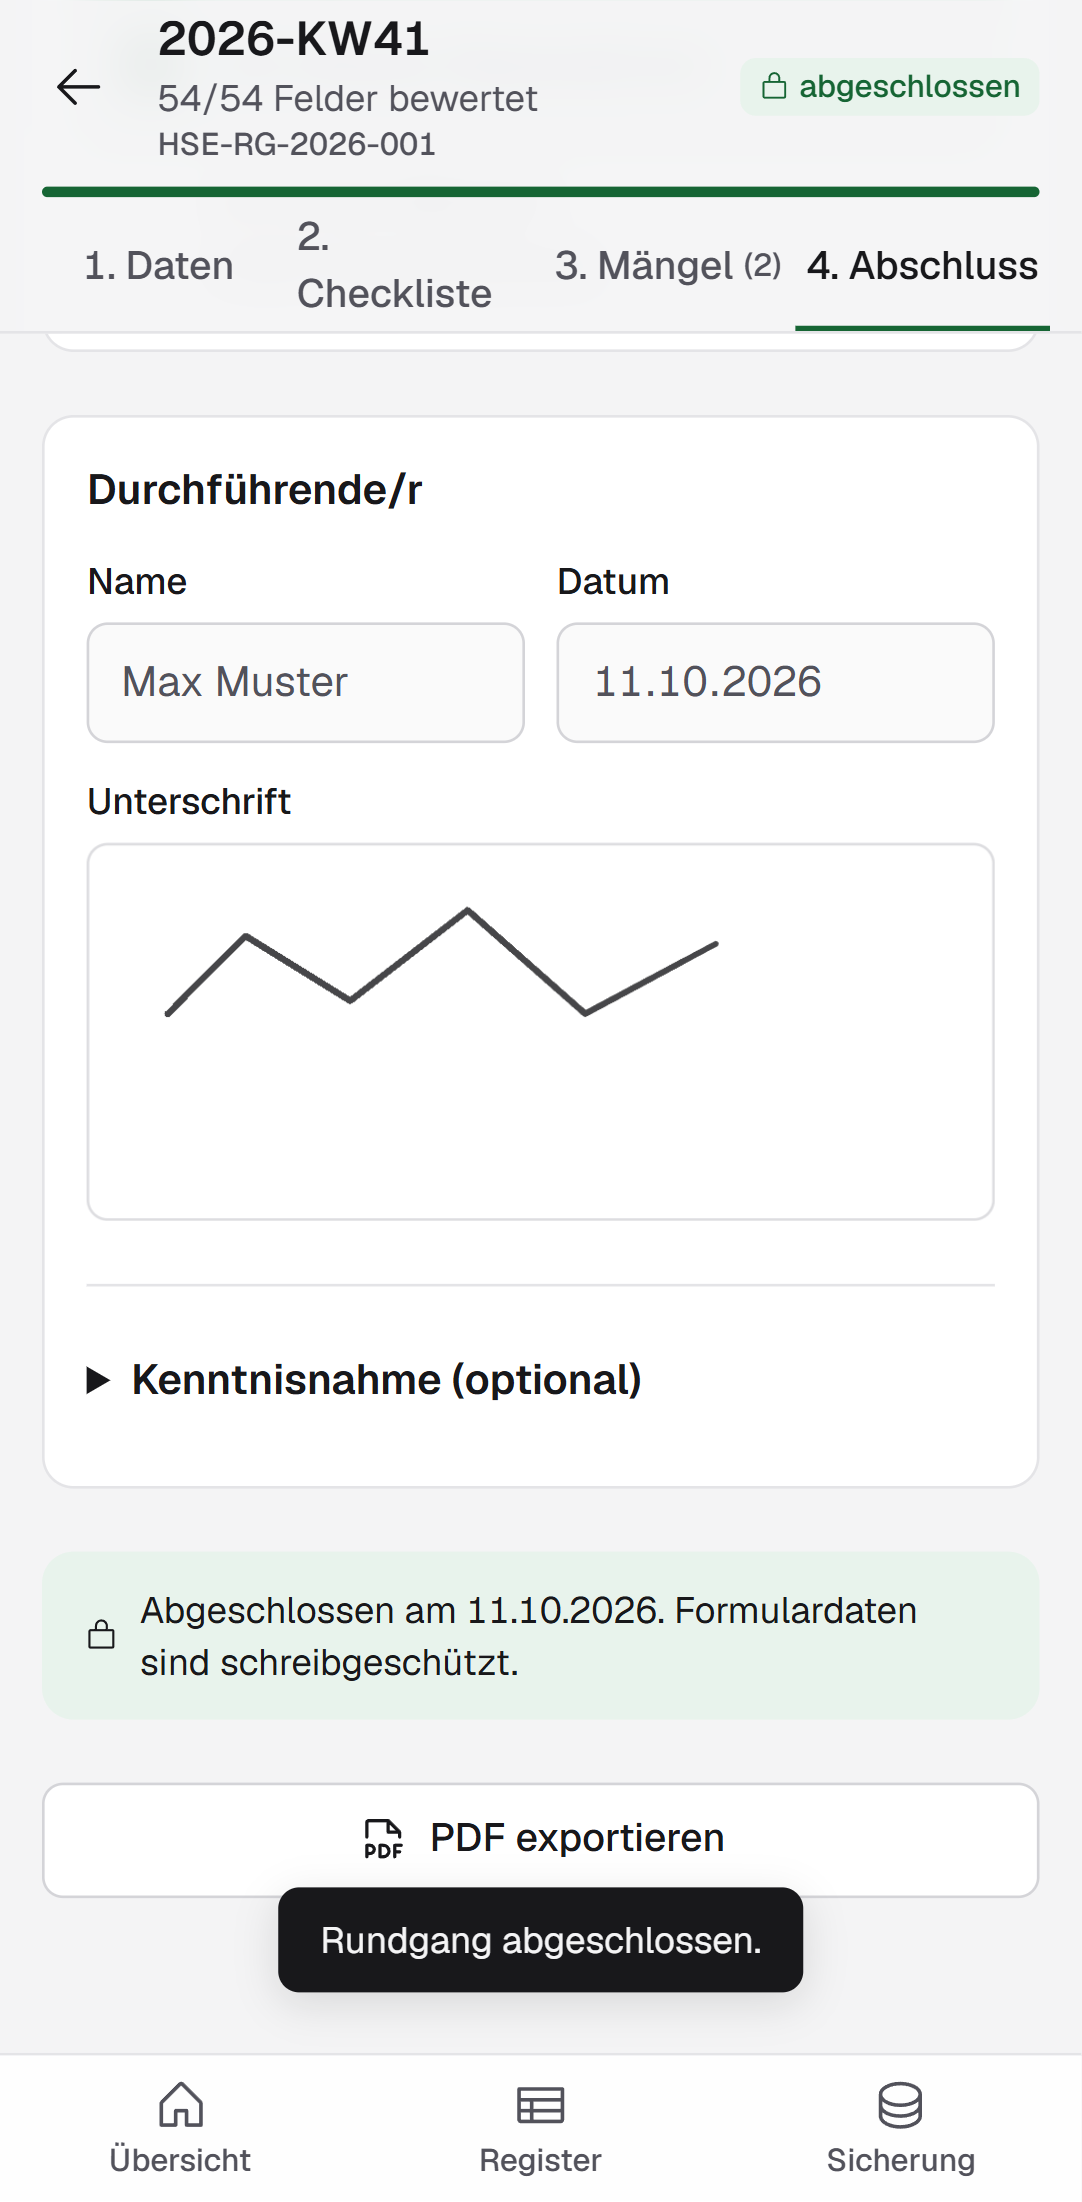
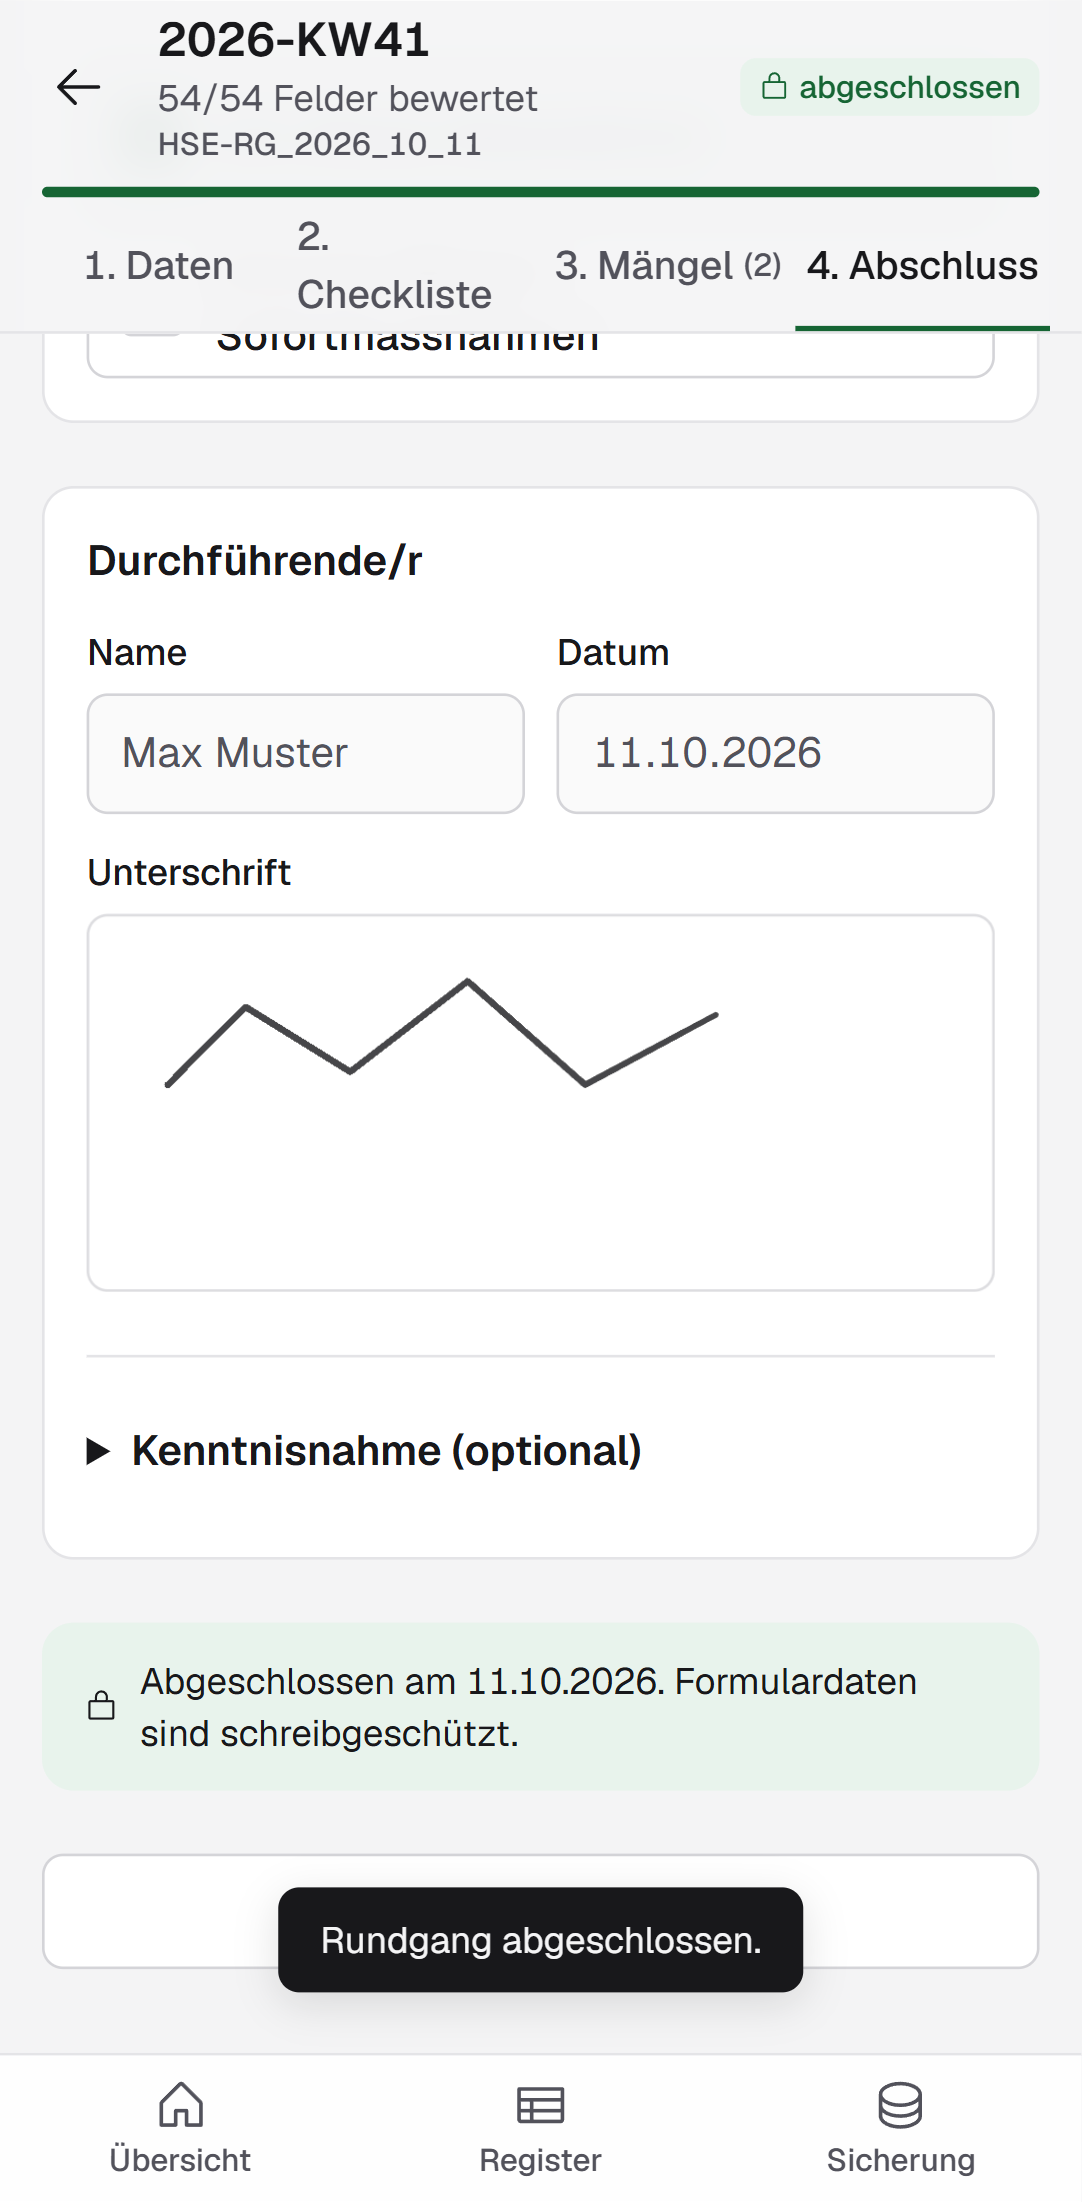
Show date-based walk IDs across reports and lists

diff --git a/src/lib/pdf.ts b/src/lib/pdf.ts
@@ -3,7 +3,7 @@ import { autoTable, type CellHookData, type RowInput } from 'jspdf-autotable';
 import { QPS_LOGO_PNG, QPS_LOGO_RATIO } from '../assets/qpsLogo';
 import { FORM_AREAS, FORM_TITLE, INTERVAL_NOTICE, MONTHLY_ITEMS, MONTHLY_NOTICE, NOT_IN_WALK_TEXT, PRIORITY_NOTE, RATING_LABELS, RATING_LEGEND, SOP_META, WEEKLY_ITEMS, WEEKLY_NOTICE, areaLabel } from '../data/checklist';
 import { DEFECT_STATUS_LABELS, PRIORITY_KEY_TO_TEXT, RESULT_LABELS } from '../data/register';
-import { addDays, durationMinutes, formatDate, formatDuration, toISODate } from './dates';
+import { addDays, displayWalkNumber, durationMinutes, formatDate, formatDuration, toISODate } from './dates';
 import { blobToDataUrl } from './image';
 import { priorityDays, suggestedResult, validDefectDue } from './register';
 import type { Defect, Photo, RegisterSettings, ResultKey, Walk } from './types';
@@ -35,7 +35,7 @@ const DESCRIPTION_FALLBACK = 'Beschreibung nicht hinterlegt';
 
 export function pdfWalkNumber(walk: Pick<Walk, 'date'>): string {
   // Presentation-only number requested for the PDF; stored docNr remains the immutable app key.
-  return `HSE-RG_${walk.date.slice(0, 10).replaceAll('-', '_')}`;
+  return displayWalkNumber(walk.date);
 }
 
 export function safePdfDescription(value: unknown): string {
@@ -169,7 +169,7 @@ export async function buildReportPdf(input: PdfInput): Promise<jsPDF> {
       [label('Datum'), formatDate(walk.date), label('Kalenderwoche'), `${walk.isoYear}-KW${String(walk.week).padStart(2, '0')}`],
       [label('Uhrzeit'), `${walk.startTime || '–'} bis ${walk.endTime || '–'}`, label('Dauer'), formatDuration(durationMinutes(walk.startTime, walk.endTime)) || '–'],
       [label('Durchgeführt von'), walk.inspector, label('Begleitperson'), walk.companion || '–'],
-      [label('Monatspunkte'), '', label('Rundgang-Nr.'), walk.docNr],
+      [label('Monatspunkte'), '', label('Rundgang-Nr.'), displayWalkNumber(walk.date)],
       [label('Neue Mängel aktuell'), `${defects.length} erfasst`, label('Frühere Massnahmen offen'), String(openFromPrevious.length)],
     ],
     columnStyles: { 0: { cellWidth: 33 }, 2: { cellWidth: 29 } },
@@ -374,7 +374,7 @@ export async function buildReportPdf(input: PdfInput): Promise<jsPDF> {
     const effectiveDue = validDefectDue(sourceDate, defect, settings);
     const originalDue = defect.due || addDays(sourceDate, priorityDays(settings, defect.priority));
     const overdue = effectiveDue < toISODate(new Date());
-    return [source?.docNr || 'nicht hinterlegt', `M${String(defect.nr).padStart(2, '0')}`, defect.itemId || '–', areaLabel(defect.area, settings.areas), safePdfDescription(defect.description), DEFECT_STATUS_LABELS[defect.status] ?? 'Status nicht hinterlegt', formatDate(originalDue), overdue ? 'ÜBERFÄLLIG' : 'fristgerecht'];
+    return [source ? displayWalkNumber(source.date) : 'nicht hinterlegt', `M${String(defect.nr).padStart(2, '0')}`, defect.itemId || '–', areaLabel(defect.area, settings.areas), safePdfDescription(defect.description), DEFECT_STATUS_LABELS[defect.status] ?? 'Status nicht hinterlegt', formatDate(originalDue), overdue ? 'ÜBERFÄLLIG' : 'fristgerecht'];
   }) : [[{ content: 'Keine offenen Massnahmen aus vorherigen Rundgängen.', colSpan: 8, styles: { textColor: MUTED } }]];
   autoTable(doc, {
     ...common,

diff --git a/src/pages/RegisterPage.tsx b/src/pages/RegisterPage.tsx
@@ -6,7 +6,7 @@ import { DEFECT_STATUS_LABELS, PRIORITY_KEY_TO_TEXT, RESULT_LABELS } from '../da
 import { areaLabel } from '../data/checklist';
 import { db, updateDefect } from '../db';
 import { exportRegisterXlsx } from '../export';
-import { formatDate, toISODate } from '../lib/dates';
+import { displayWalkNumber, formatDate, toISODate } from '../lib/dates';
 import { defectDaysOpen, roundRegisterRows, validDefectDue } from '../lib/register';
 import type { Defect, DefectStatus, Walk } from '../lib/types';
 import { EmptyState, useToast } from '../components/ui';
@@ -64,7 +64,7 @@ function RoundsRegister({ rows }: { rows: ReturnType<typeof roundRegisterRows> }
       <td className={`px-3 py-3 ${row.monthlyWarning ? 'font-semibold text-warn' : ''}`}>{row.walk.monthlyChecked ? 'Ja' : 'Nein'}{row.monthlyWarning ? ' · 2.2 fehlt' : ''}</td>
       <td className="px-3 py-3">{row.walk.startTime}</td><td className="px-3 py-3">{row.walk.endTime || '–'}</td><td className="px-3 py-3">{row.durationMinutes === null ? '–' : `${Math.floor(row.durationMinutes / 60)}:${String(row.durationMinutes % 60).padStart(2, '0')}`}</td>
       <td className="px-3 py-3">{row.walk.inspector}</td><td className="px-3 py-3">{row.walk.companion || '–'}</td><td className="px-3 py-3">{row.defectCount}</td><td className="px-3 py-3">{row.criticalCount}</td><td className="px-3 py-3">{row.openCount}</td>
-      <td className="px-3 py-3">{row.walk.result ? RESULT_LABELS[row.walk.result] : '–'}</td><td className="px-3 py-3"><Link className="text-accent underline" to={`/rundgang/${row.walk.id}/abschluss`}>{row.pdfFilename}</Link></td><td className="max-w-48 truncate px-3 py-3">{row.walk.note}</td><td className="px-3 py-3 font-medium">{row.walk.docNr}</td>
+      <td className="px-3 py-3">{row.walk.result ? RESULT_LABELS[row.walk.result] : '–'}</td><td className="px-3 py-3"><Link className="text-accent underline" to={`/rundgang/${row.walk.id}/abschluss`}>{row.pdfFilename}</Link></td><td className="max-w-48 truncate px-3 py-3">{row.walk.note}</td><td className="px-3 py-3 font-medium">{displayWalkNumber(row.walk.date)}</td>
     </tr>)}
   </tbody></table></div>;
 }

diff --git a/tests/e2e/smoke.spec.ts b/tests/e2e/smoke.spec.ts
@@ -37,7 +37,7 @@ test('neuer Rundgang, optionale Monatspunkte, Mangel mit Foto, Abschluss, Regist
 
   await page.getByTestId('new-walk').click();
   const docNr = (await page.getByTestId('walk-docnr').textContent())?.trim();
-  expect(docNr).toMatch(/^HSE-RG-\d{4}-001$/);
+  expect(docNr).toMatch(/^HSE-RG_\d{4}_\d{2}_\d{2}$/);
   await page.getByLabel('Durchgeführt von').fill('Max Muster');
   const endTime = await page.getByLabel('Uhrzeit Beginn').evaluate((element: HTMLInputElement) => {
     const [hour, minute] = element.value.split(':').map(Number);
@@ -110,7 +110,7 @@ test('neuer Rundgang, optionale Monatspunkte, Mangel mit Foto, Abschluss, Regist
   await page.screenshot({ path: `${shots}/03-abschluss.png` });
 
   const [pdf] = await Promise.all([page.waitForEvent('download'), page.getByTestId('export-pdf').click()]);
-  expect(pdf.suggestedFilename()).toBe(`HSE-RG_${new Date().toISOString().slice(0, 10).replaceAll('-', '_')}.pdf`);
+  expect(pdf.suggestedFilename()).toBe(`${docNr}.pdf`);
   const pdfPath = test.info().outputPath(pdf.suggestedFilename());
   if (process.env.KEEP_PDF) await pdf.saveAs(process.env.KEEP_PDF);
   await pdf.saveAs(pdfPath);
@@ -134,7 +134,7 @@ test('neuer Rundgang, optionale Monatspunkte, Mangel mit Foto, Abschluss, Regist
   await expect(page.getByTestId('overview-round-count')).toHaveText('1');
   await page.getByTestId('new-walk').click();
   const secondDocNr = (await page.getByTestId('walk-docnr').textContent())?.trim();
-  expect(secondDocNr).toMatch(/^HSE-RG-\d{4}-002$/);
+  expect(secondDocNr).toMatch(/^HSE-RG_\d{4}_\d{2}_\d{2}$/);
   await expect(page.getByTestId('open-points')).toContainText('Feuerlöscher hinter Material abgestellt');
   await expect(page.getByTestId('monthly-checked')).not.toBeChecked();
   const secondEndTime = await page.getByLabel('Uhrzeit Beginn').evaluate((element: HTMLInputElement) => {

diff --git a/src/pages/DashboardPage.tsx b/src/pages/DashboardPage.tsx
@@ -3,7 +3,7 @@ import { useLiveQuery } from 'dexie-react-hooks';
 import { useState } from 'react';
 import { Link, useNavigate } from 'react-router';
 import { createWalk, db } from '../db';
-import { formatDate, weekLabel } from '../lib/dates';
+import { displayWalkNumber, formatDate, weekLabel } from '../lib/dates';
 import { overviewMetrics, roundRegisterRows } from '../lib/register';
 import { Badge, EmptyState } from '../components/ui';
 import { useRegisterSettings } from '../components/SettingsContext';
@@ -117,7 +117,7 @@ export function DashboardPage() {
                     <Link to={`/rundgang/${walk.id}/daten`} className="flex items-center gap-3 px-4 py-3 active:bg-surface-2">
                       <div className="min-w-0 flex-1">
                         <div className="flex flex-wrap items-center gap-2">
-                          <span className="font-semibold">{walk.docNr}</span>
+                          <span className="font-semibold">{displayWalkNumber(walk.date)}</span>
                           <span className="text-sm text-muted">{weekLabel(walk.isoYear, walk.week)}</span>
                           {walk.status === 'closed' ? <Badge tone="ok">abgeschlossen</Badge> : <Badge tone="warn">Entwurf</Badge>}
                           {monthlyWarning && <Badge tone="warn">2.2 fehlt</Badge>}

diff --git a/src/components/DefectRow.tsx b/src/components/DefectRow.tsx
@@ -3,7 +3,7 @@ import { useState } from 'react';
 import { areaLabel } from '../data/checklist';
 import { DEFECT_STATUS_LABELS, PRIORITY_KEY_TO_TEXT } from '../data/register';
 import { updateDefect } from '../db';
-import { formatDate } from '../lib/dates';
+import { displayWalkNumber, formatDate } from '../lib/dates';
 import { defectDaysOpen, validDefectDue } from '../lib/register';
 import type { Defect, DefectStatus, Walk } from '../lib/types';
 import { useRegisterSettings } from './SettingsContext';
@@ -53,7 +53,7 @@ export function DefectRow({
       <div className="flex flex-wrap items-center gap-1.5 text-sm">
         <span className="font-semibold tabular-nums">{defect.mangelId}</span>
         <span className="text-muted">Nr. {defect.nr} · {defect.itemId}</span>
-        {showOrigin && walk && <span className="text-muted">{walk.docNr}</span>}
+        {showOrigin && walk && <span className="text-muted">{displayWalkNumber(walk.date)}</span>}
         <span className="ml-auto flex items-center gap-1.5">
           <Badge tone={defect.priority === 'K' ? 'danger' : 'neutral'}>{PRIORITY_KEY_TO_TEXT[defect.priority]}</Badge>
           <Badge tone={defect.status === 'done' ? 'ok' : overdue ? 'danger' : defect.status === 'recheck' ? 'warn' : 'neutral'}>{DEFECT_STATUS_LABELS[defect.status]}</Badge>

diff --git a/src/lib/excel.ts b/src/lib/excel.ts
@@ -1,7 +1,7 @@
 import ExcelJS from 'exceljs';
 import { areaLabel } from '../data/checklist';
 import { DEFECT_STATUS_LABELS, PRIORITY_KEY_TO_TEXT, RESULT_LABELS } from '../data/register';
-import { isoWeek } from './dates';
+import { displayWalkNumber, isoWeek } from './dates';
 import { defectDaysOpen, roundRegisterRows, validDefectDue } from './register';
 import type { Defect, RegisterSettings, Walk } from './types';
 
@@ -82,7 +82,7 @@ export async function buildRegisterWorkbook(input: RegisterWorkbookInput): Promi
       walk.result ? RESULT_LABELS[walk.result] : '',
       item.pdfFilename,
       walk.note,
-      walk.docNr,
+      displayWalkNumber(walk.date),
     ]);
     styleDataRow(row);
     row.getCell(2).numFmt = 'dd.mm.yyyy';
@@ -128,7 +128,7 @@ export async function buildRegisterWorkbook(input: RegisterWorkbookInput): Promi
       defectDaysOpen(walkDate, defect),
       overdue ? 'ÜBERFÄLLIG' : '',
       defect.note,
-      walk?.docNr ?? '',
+      walk ? displayWalkNumber(walk.date) : '',
     ]);
     styleDataRow(row);
     for (const column of [2, 13, 15, 16, 19, 20]) row.getCell(column).numFmt = 'dd.mm.yyyy';

diff --git a/tests/unit/pdf.test.ts b/tests/unit/pdf.test.ts
@@ -65,7 +65,7 @@ describe('PDF Kopfzeile (SOP QPS_HSE_00064)', () => {
       settings: { id: 'app', areas: ['Engineering', 'QLabs', 'xTec Lager', 'xTec Werkstatt'], priorityDays: { K: 0, H: 2, M: 7, N: 30 }, maxIntervalDays: 14 },
     });
     const output = pdf.output();
-    for (const text of ['Keine neuen Mängel festgestellt.', 'Offene Massnahmen aus vorherigen', '(1)', 'HSE-RG-2026-019', 'M01', 'R1', 'QxTec', 'Fluchtweg durch Material blockiert', 'Status: ABGESCHLOSSEN']) expect(output).toContain(text);
+    for (const text of ['Keine neuen Mängel festgestellt.', 'Offene Massnahmen aus vorherigen', '(1)', 'HSE-RG_2026_10_01', 'M01', 'R1', 'QxTec', 'Fluchtweg durch Material blockiert', 'Status: ABGESCHLOSSEN']) expect(output).toContain(text);
     expect(pdfResultForWalk('open', [])).toBe('none');
     expect(pdfResultForWalk('none', [makeDefect({ priority: 'M' })])).toBe('minor');
     expect(pdfResultForWalk('none', [makeDefect({ priority: 'K' })])).toBe('critical');

diff --git a/src/pages/WalkPage.tsx b/src/pages/WalkPage.tsx
@@ -3,7 +3,7 @@ import { useLiveQuery } from 'dexie-react-hooks';
 import { useCallback, useState } from 'react';
 import { Link, NavLink, Navigate, useParams } from 'react-router';
 import { db, newDefectDraft } from '../db';
-import { weekLabel } from '../lib/dates';
+import { displayWalkNumber, weekLabel } from '../lib/dates';
 import type { Defect } from '../lib/types';
 import { countRatings } from '../lib/walk';
 import { DefectSheet } from '../components/DefectSheet';
@@ -59,7 +59,7 @@ export function WalkPage() {
             <p className="truncate text-sm text-muted">
               {c.checked}/{c.total} Felder bewertet
             </p>
-            <p className="truncate text-xs font-medium text-muted" data-testid="walk-docnr">{walk.docNr}</p>
+            <p className="truncate text-xs font-medium text-muted" data-testid="walk-docnr">{displayWalkNumber(walk.date)}</p>
           </div>
           {closed ? (
             <Badge tone="ok">

diff --git a/tests/unit/excel.test.ts b/tests/unit/excel.test.ts
@@ -25,6 +25,7 @@ describe('Excel register export', () => {
     expect(header('Mängel')).toEqual([
       'Mangel-ID', 'Datum', 'KW', 'Nr. im Formular', 'Bereich', 'Kontrollpunkt', 'Beschreibung des Mangels', 'Festgestellte Gefahr', 'Priorität', 'Sofortmassnahme', 'Massnahme', 'Verantwortlich', 'Frist', 'Status', 'Erledigt am', 'Nachkontrolle am', 'Kontrolliert von', 'Mangel behoben?', 'Neuer Termin (bei Nein)', 'Gültige Frist', 'Tage offen', 'Überfällig', 'Bemerkung', 'Rundgang-Nr.',
     ]);
-    expect(workbook.getWorksheet('Rundgänge')?.getRow(2).getCell(18).value).toBe('HSE-RG-2026-001');
+    expect(workbook.getWorksheet('Rundgänge')?.getRow(2).getCell(18).value).toBe('HSE-RG_2026_10_08');
+    expect(workbook.getWorksheet('Rundgänge')?.getRow(2).getCell(16).value).toBe('HSE-RG_2026_10_08.pdf');
   });
 });

diff --git a/tests/unit/dates.test.ts b/tests/unit/dates.test.ts
@@ -1,5 +1,5 @@
 import { describe, expect, it } from 'vitest';
-import { addDays, addMonths, createMangelId, durationMinutes, formatDate, formatDuration, formatWalkNumber, isoWeek, parseWalkNumber, reportBaseName } from '../../src/lib/dates';
+import { addDays, addMonths, createMangelId, displayWalkNumber, durationMinutes, formatDate, formatDuration, formatWalkNumber, isoWeek, parseWalkNumber, reportBaseName } from '../../src/lib/dates';
 
 describe('ISO week', () => {
   it.each([
@@ -29,6 +29,7 @@ describe('Register date IDs and report filenames', () => {
   });
   it('uses round date and immutable document number in the PDF name', () => {
     expect(reportBaseName('2026-10-08', 'HSE-RG-2026-001')).toBe('HSE-RG_2026_10_08');
+    expect(displayWalkNumber('2026-10-11')).toBe('HSE-RG_2026_10_11');
   });
 });
 

diff --git a/src/lib/dates.ts b/src/lib/dates.ts
@@ -89,6 +89,11 @@ export function reportBaseName(date: string, _docNr: string): string {
   return `HSE-RG_${date.slice(0, 10).replaceAll('-', '_')}`;
 }
 
+/** User-facing walk identifier used in lists and reports; database docNr stays immutable. */
+export function displayWalkNumber(date: string): string {
+  return reportBaseName(date, '');
+}
+
 export function isOverdue(due: string | null | undefined, today = toISODate(new Date())): boolean {
   return !!due && due < today;
 }
